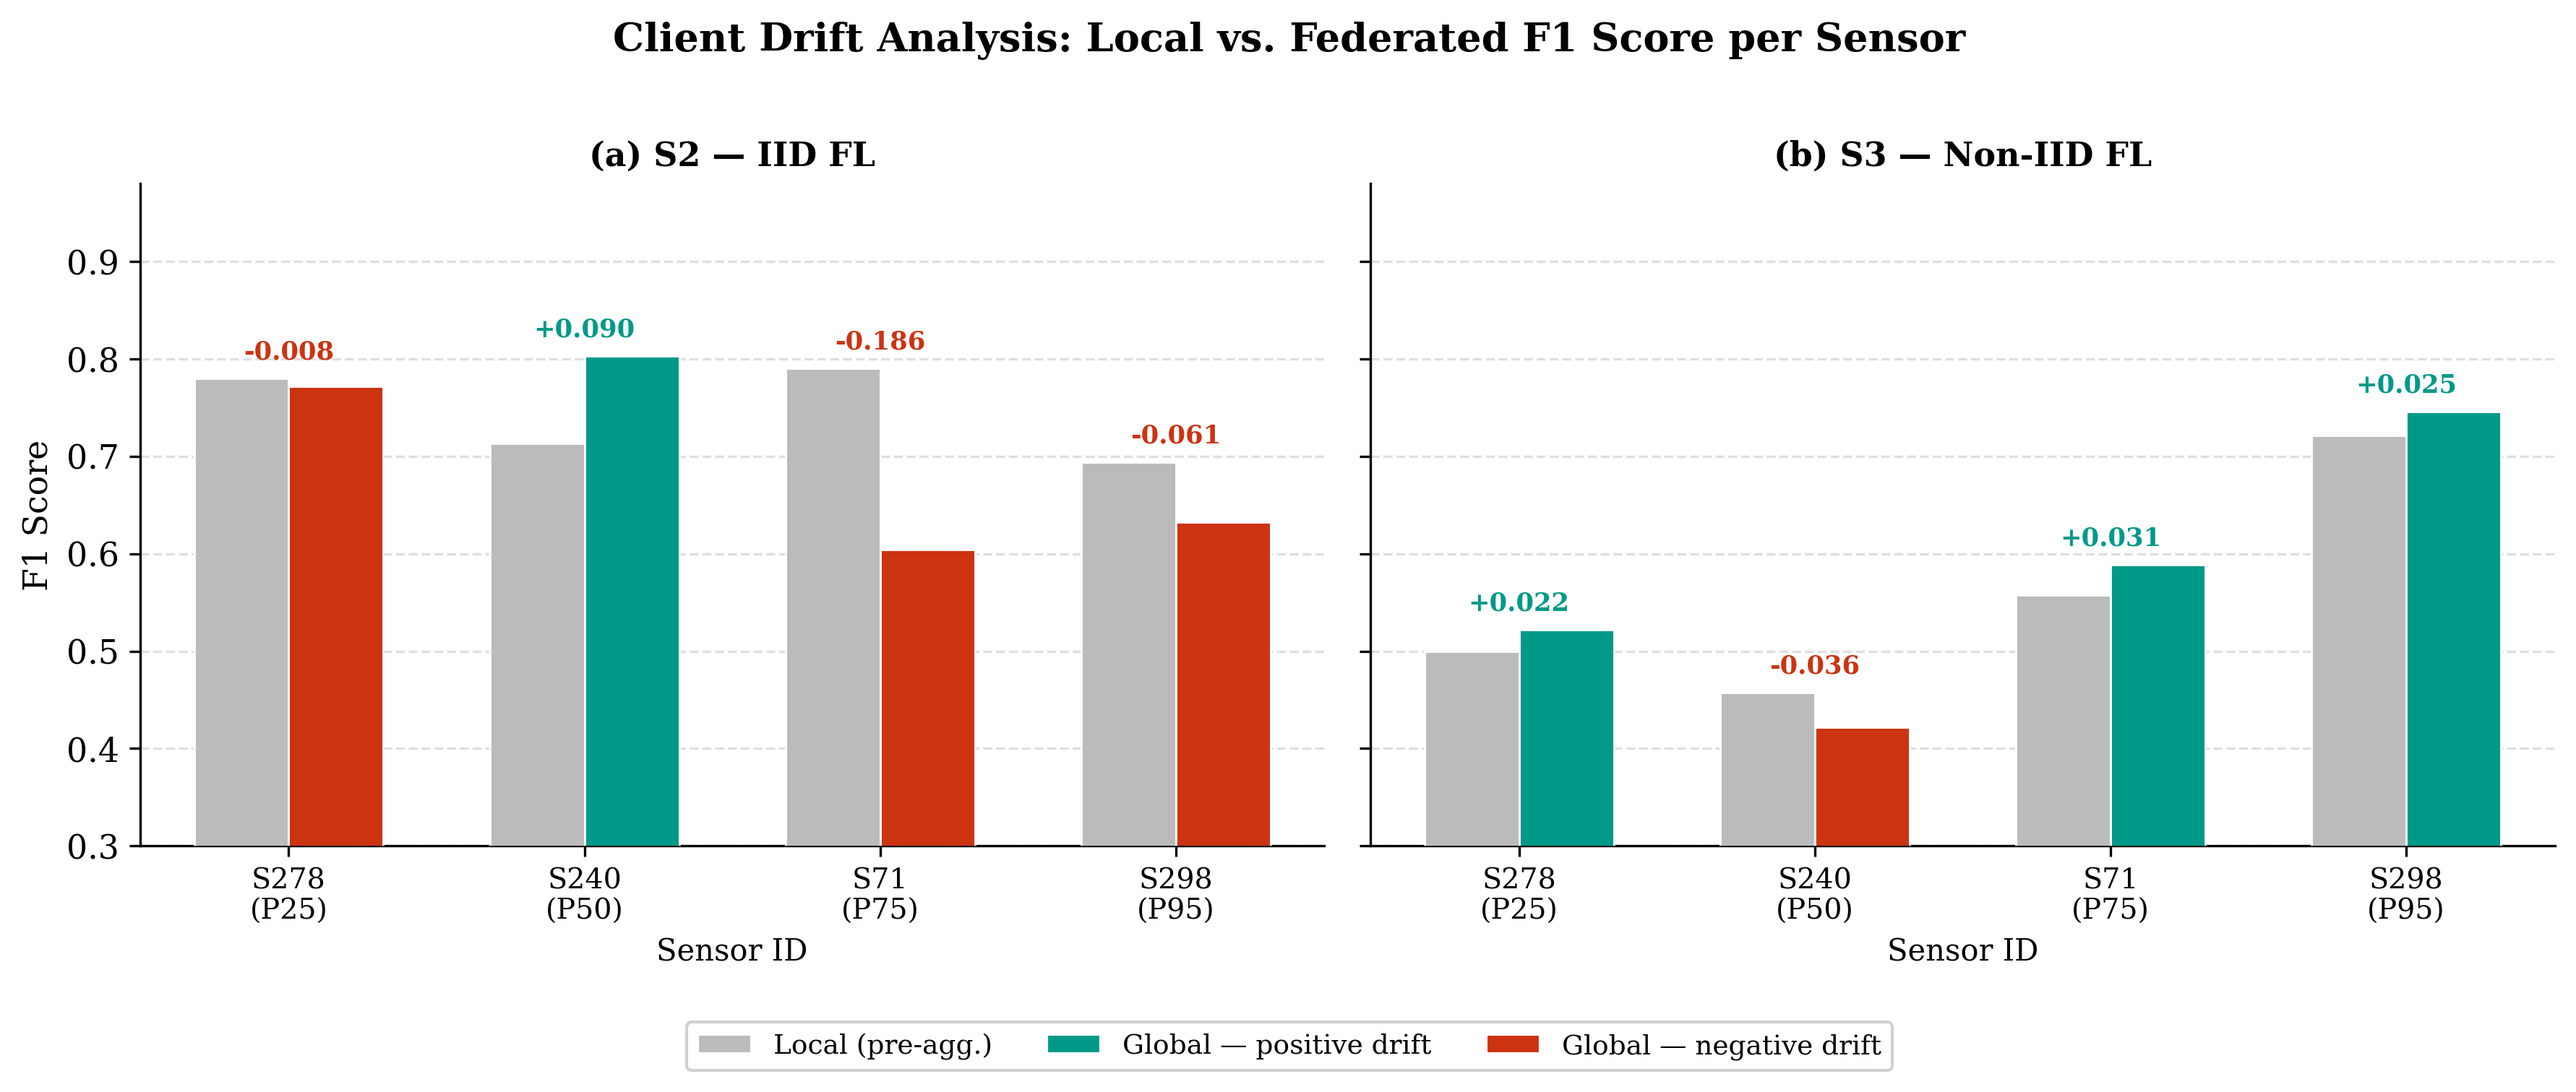
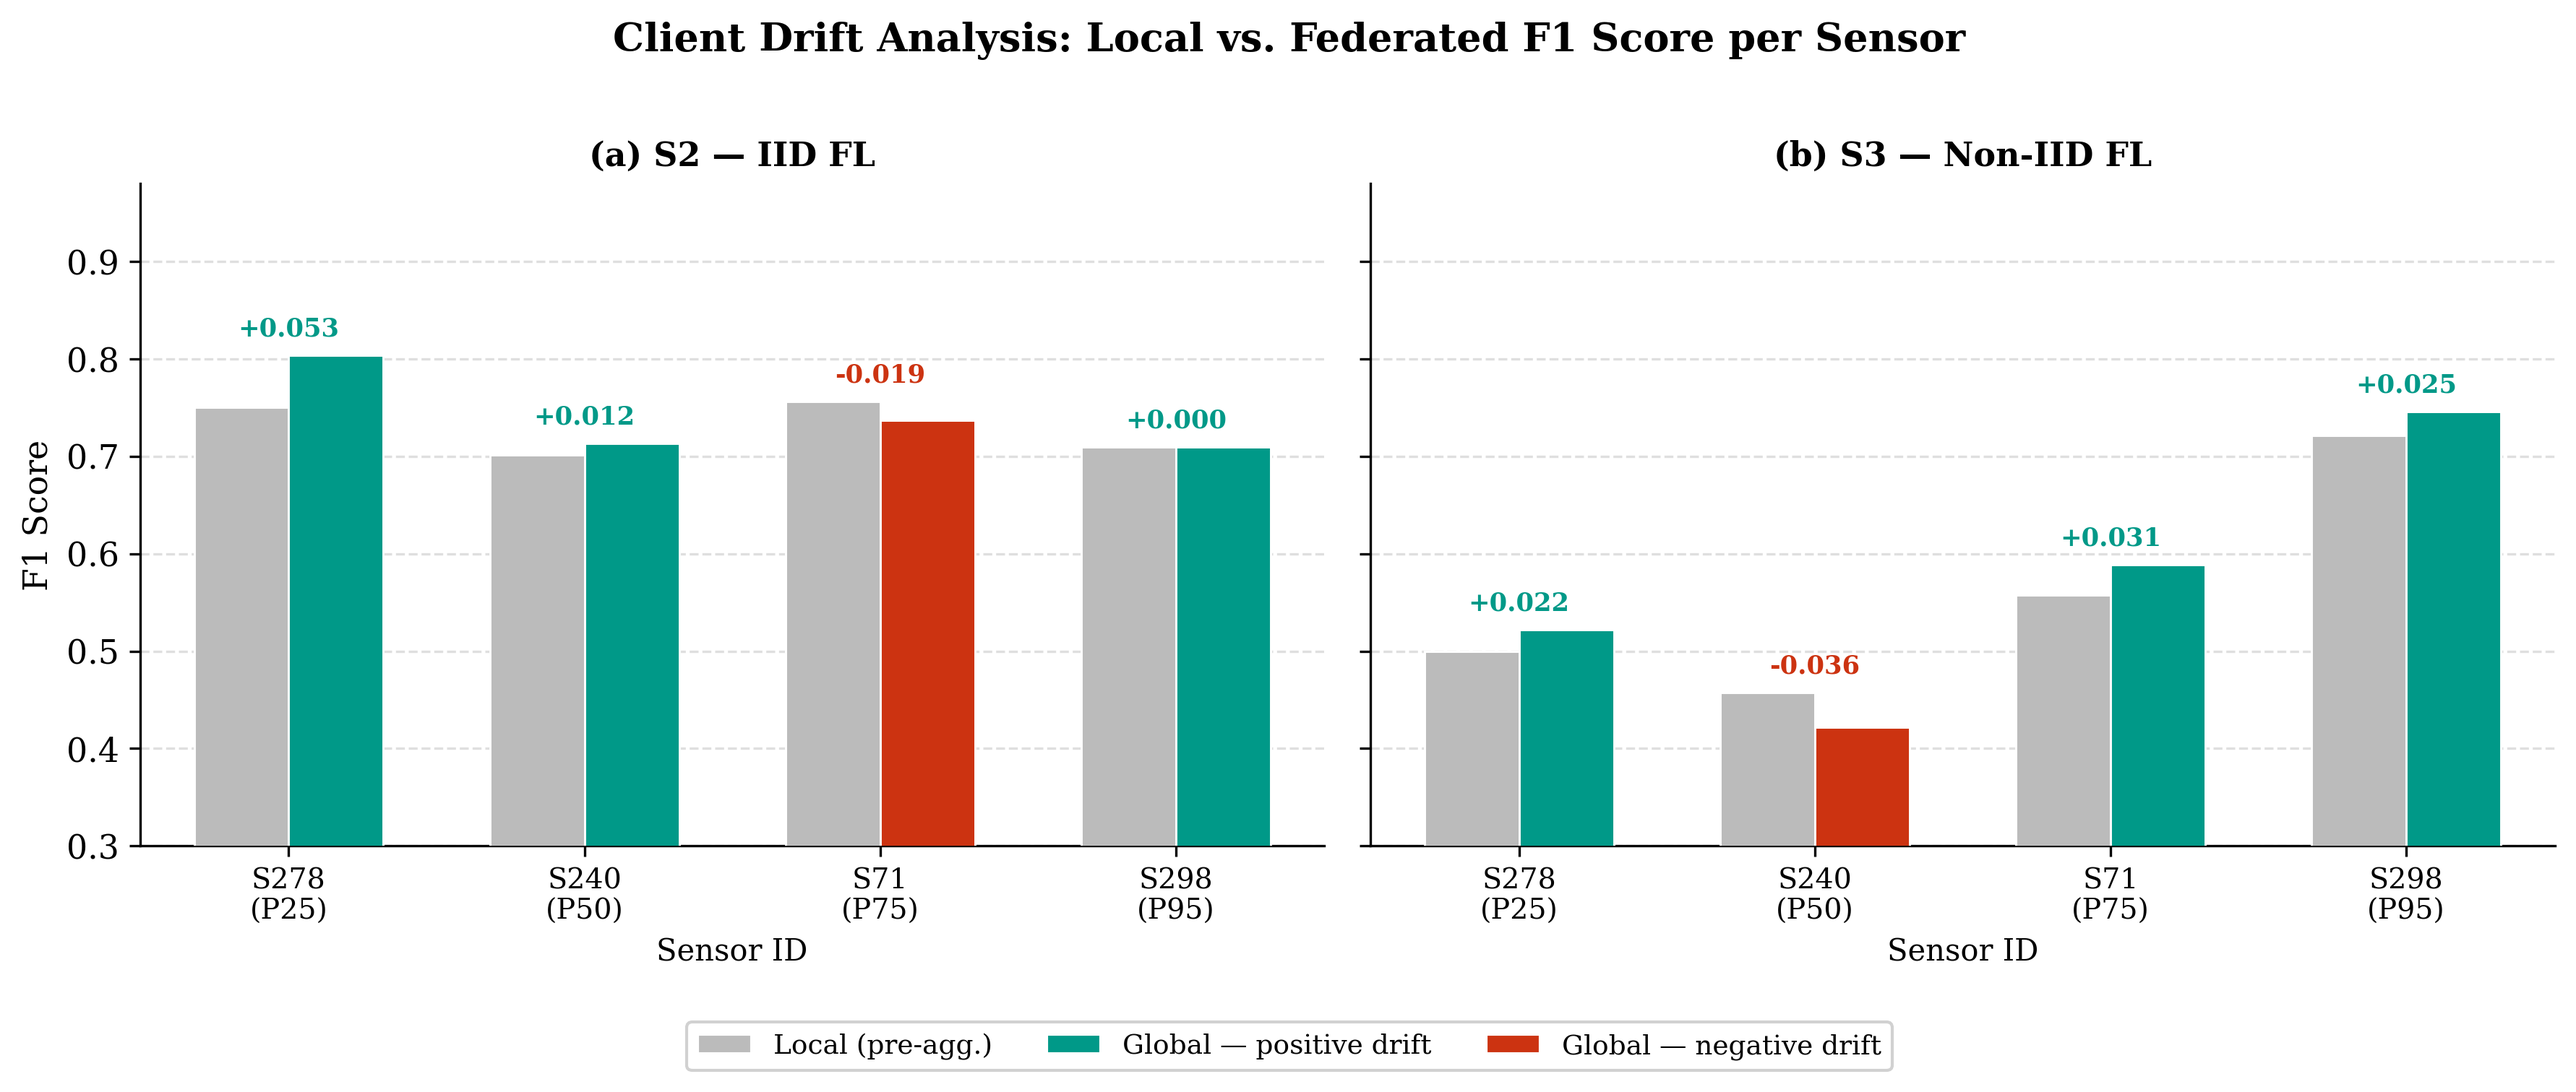
fix(figures): update fig10/fig11 annotations with v3 correct delta values

Changed region(s): [[0.3426, 0.373, 0.4983, 0.7771], [0.0623, 0.2798, 0.1557, 0.7771], [0.1869, 0.2798, 0.3737, 0.4352]]

diff --git a/src/regen_fig10_fig11.py b/src/regen_fig10_fig11.py
@@ -37,13 +37,13 @@ ax.annotate('', xy=(1, f1_values[1] + 0.01),
             xytext=(0, f1_values[0] + 0.01),
             arrowprops=dict(arrowstyle='->', color='#333333', lw=1.2))
 ax.text(0.5, max(f1_values[0], f1_values[1]) + 0.038,
-        '-9.3%', ha='center', fontsize=9, color='#333333')
+        '-4.0%', ha='center', fontsize=9, color='#333333')
 
 ax.annotate('', xy=(2, f1_values[2] + 0.01),
             xytext=(0, f1_values[0] + 0.01),
             arrowprops=dict(arrowstyle='->', color='#333333', lw=1.2))
 ax.text(1.5, f1_values[0] + 0.038,
-        '-27.5%', ha='center', fontsize=9, color='#333333')
+        '-28.4%', ha='center', fontsize=9, color='#333333')
 
 ax.axhline(y=f1_values[0], color=BLUE, linestyle='--',
            linewidth=1.0, alpha=0.5, zorder=2)
@@ -64,8 +64,8 @@ print('fig10 kaydedildi ✓')
 # ── FIG 11 ──────────────────────────────────────────────────────────
 sensor_labels = ['S278\n(P25)', 'S240\n(P50)', 'S71\n(P75)', 'S298\n(P95)']
 
-s2_local  = [0.7797, 0.7130, 0.7903, 0.6935]
-s2_global = [0.7717, 0.8030, 0.6038, 0.6325]
+s2_local  = [0.7500, 0.7009, 0.7563, 0.7097]
+s2_global = [0.8033, 0.7130, 0.7368, 0.7097]
 s2_delta  = [g - l for g, l in zip(s2_global, s2_local)]
 
 s3_local  = [0.5000, 0.4576, 0.5574, 0.7210]
